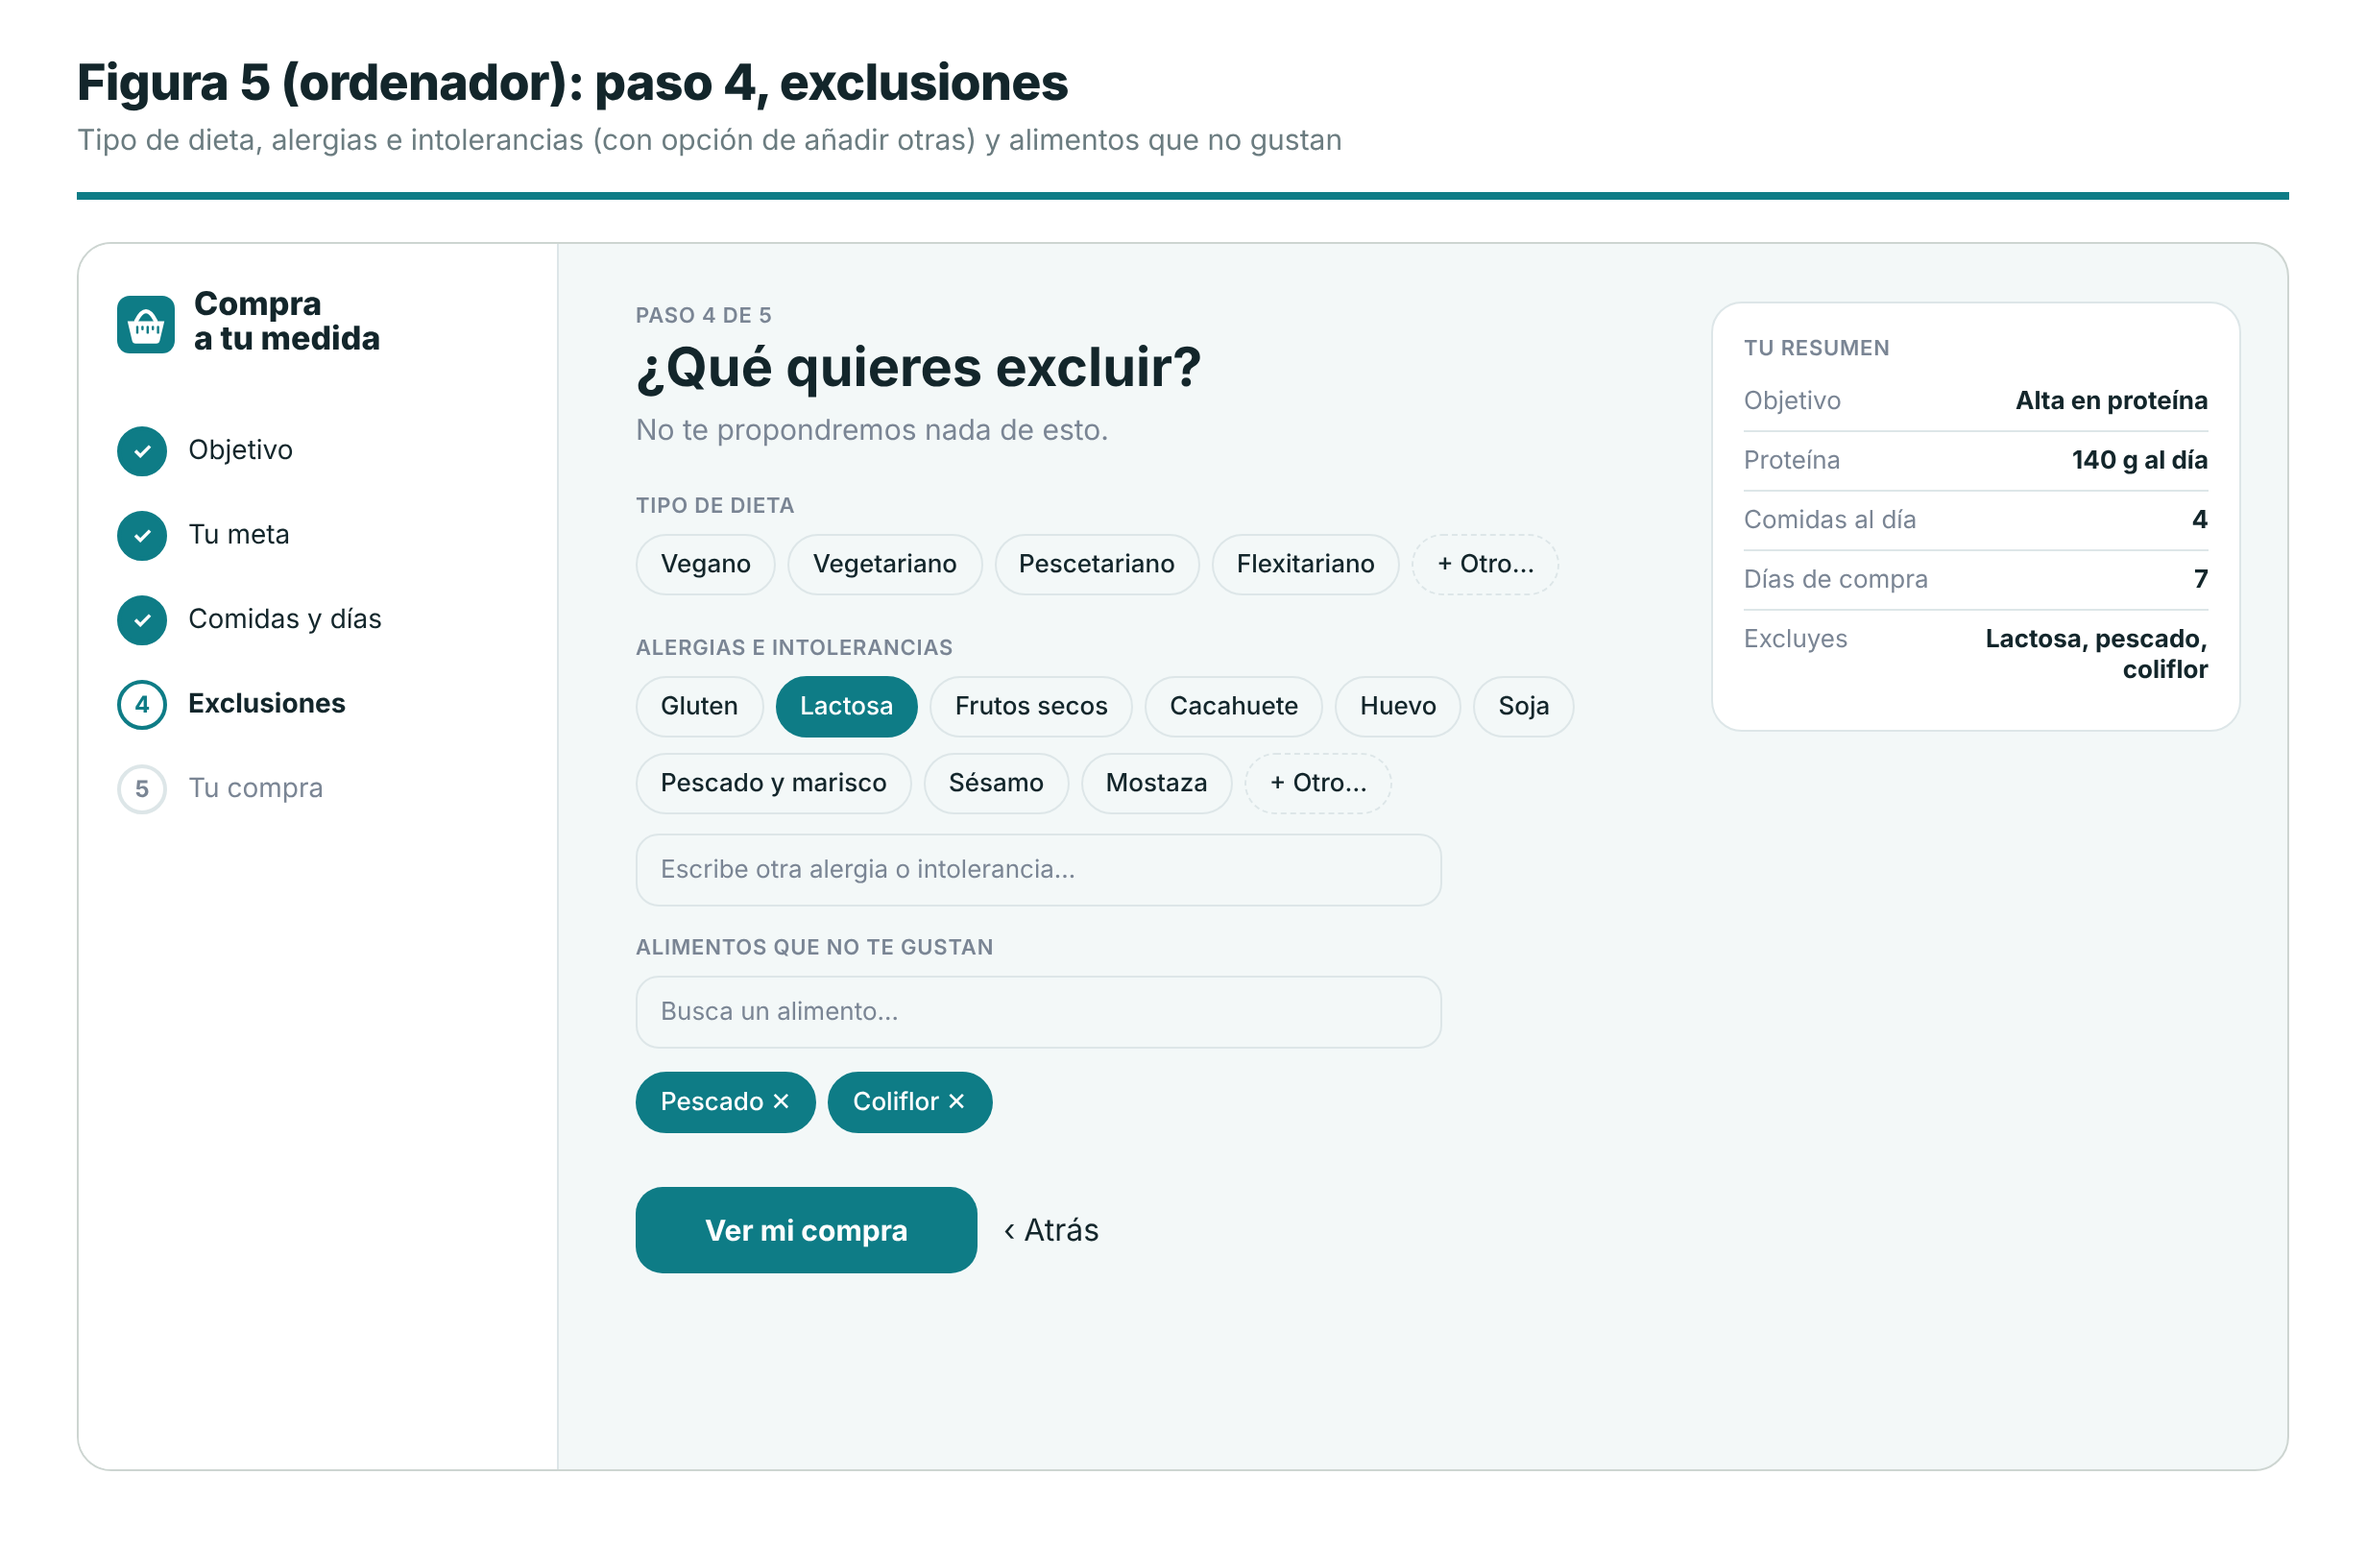
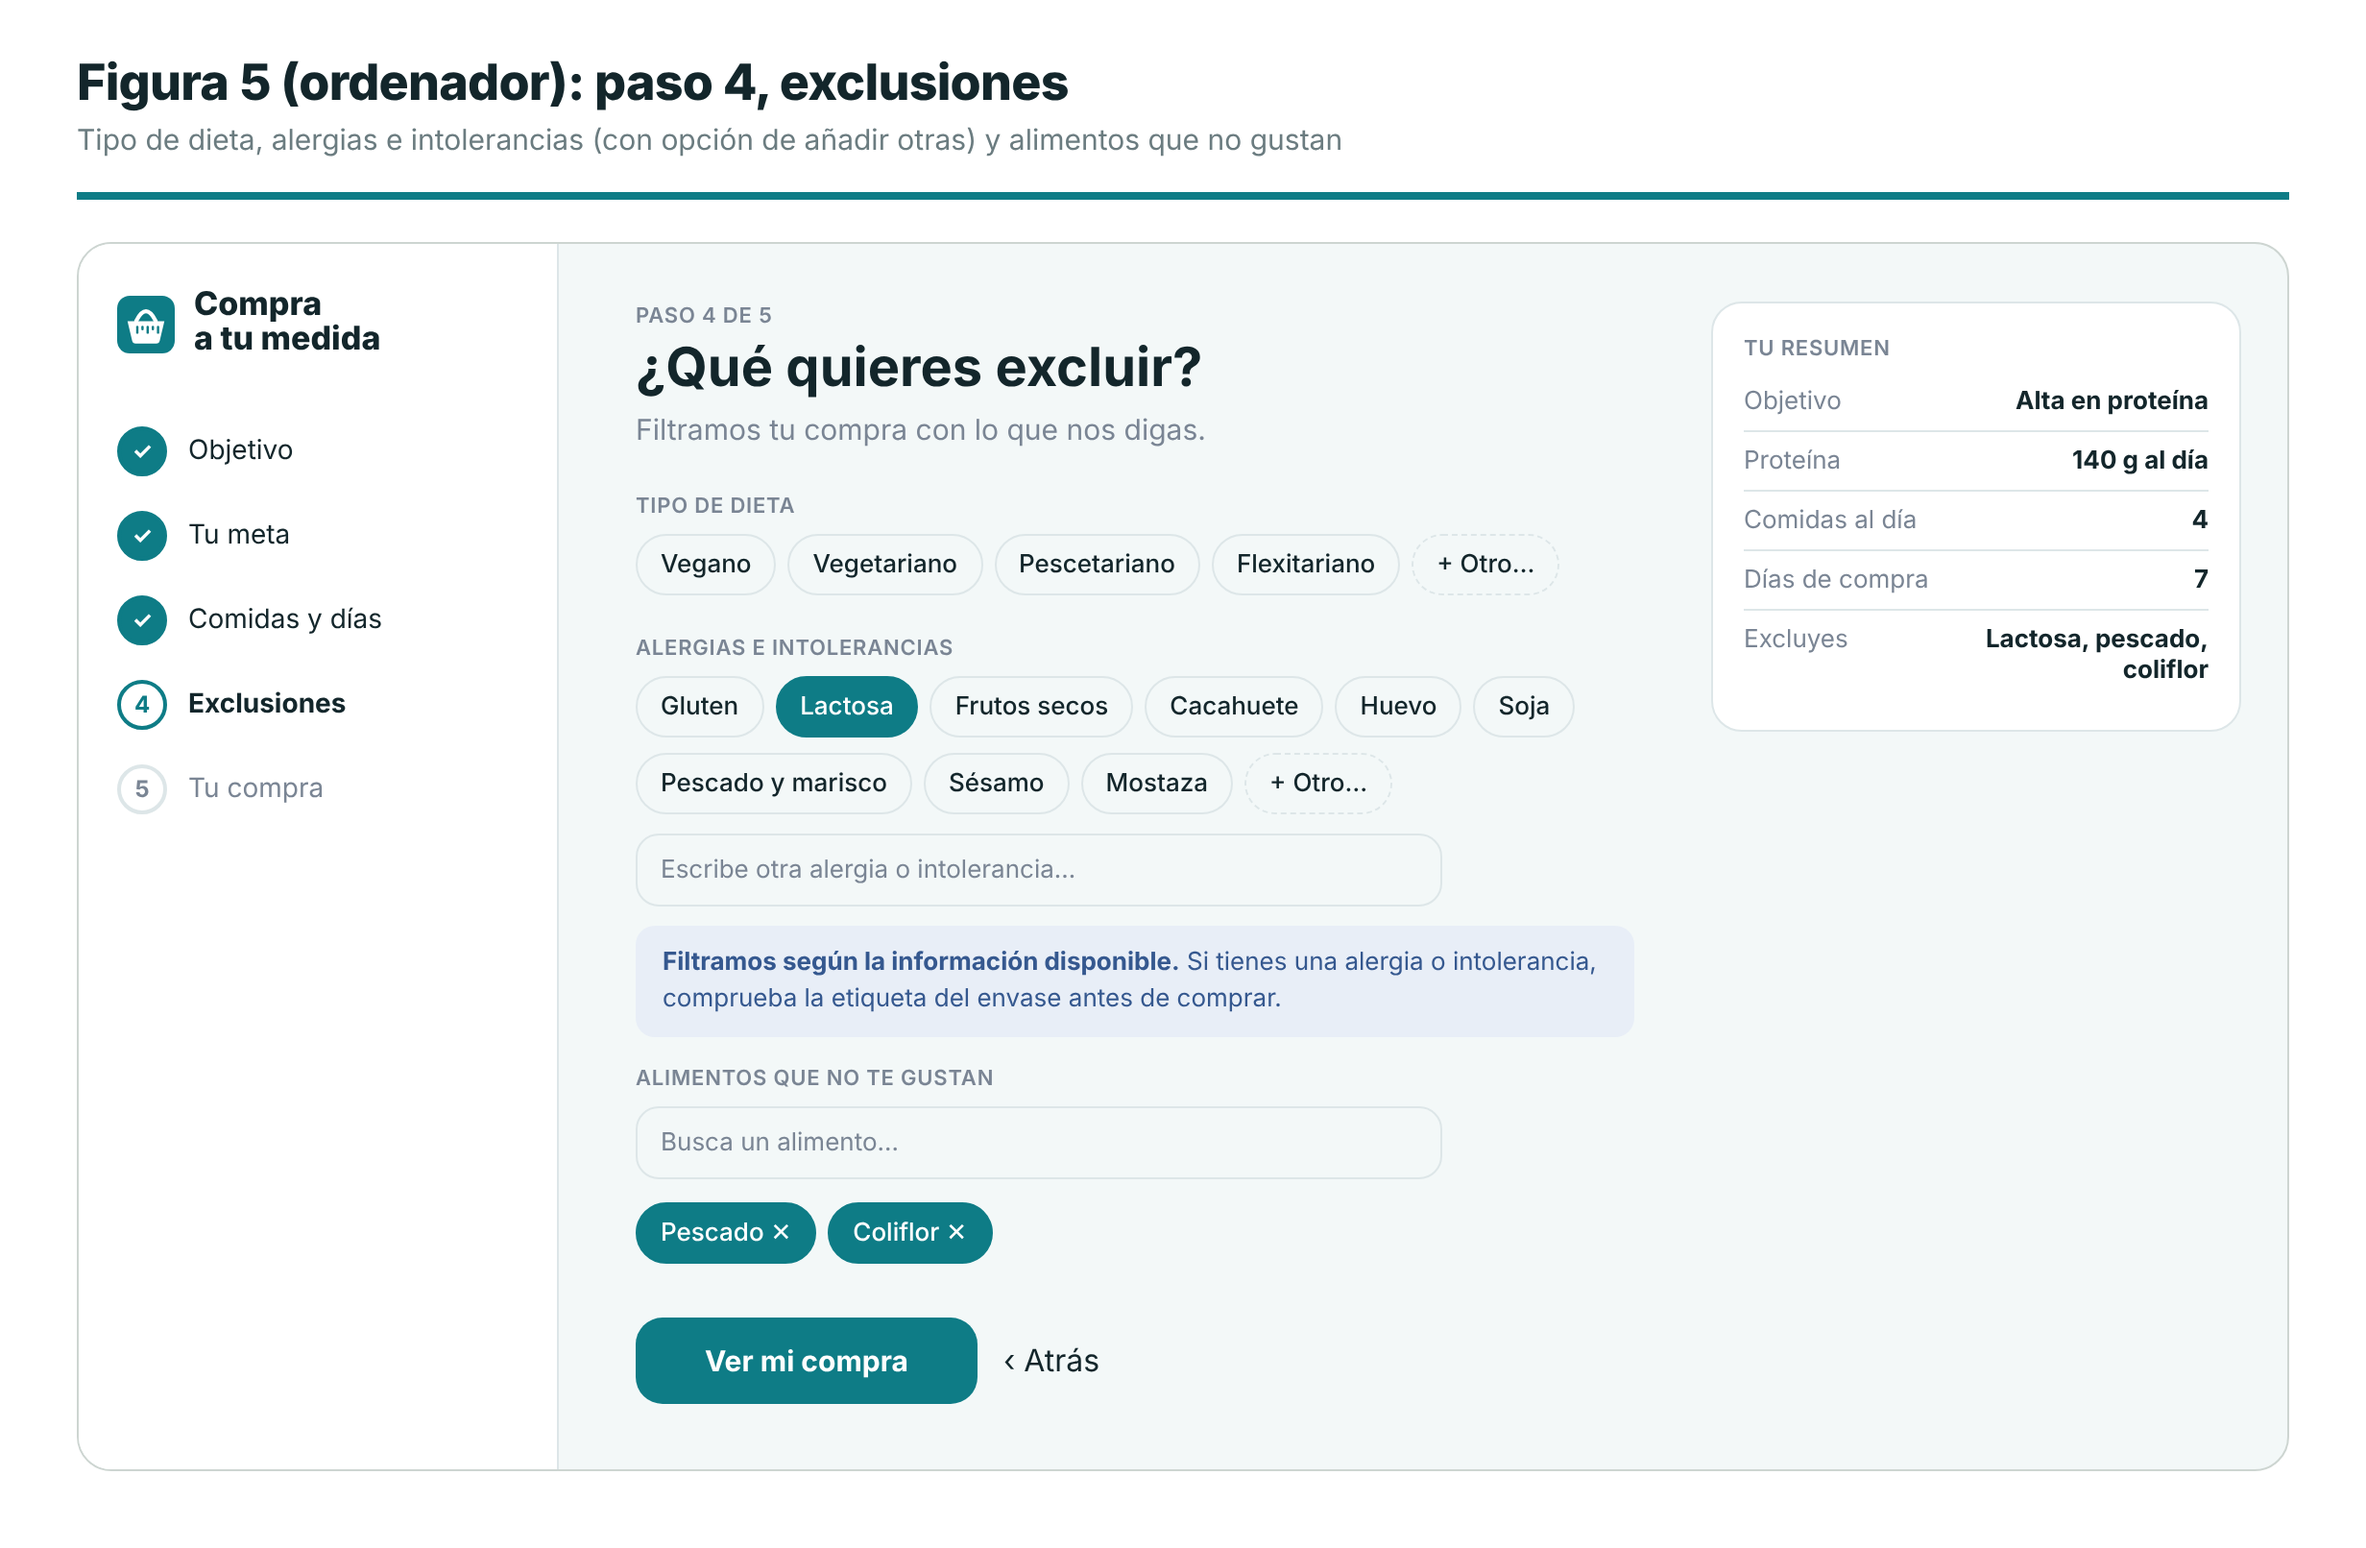
Entrega 4: aviso de alergias según el feedback del profesor

diff --git a/docs/entregas/04_diseno_frontal_ux.md b/docs/entregas/04_diseno_frontal_ux.md
@@ -30,7 +30,7 @@ La persona entra y responde a una pregunta por pantalla. Al final recibe su comp
 | 1. Objetivo | Déficit calórico, alta en proteína, baja en grasa, ganar músculo, mantener peso o comer más sano | La siguiente pregunta, adaptada al objetivo |
 | 2. Su meta | Un dato que cambia según el objetivo (ver tabla de abajo) | Su meta diaria, que puede calcularse con su peso si no la sabe |
 | 3. Comidas y días | Comidas al día (3, 4 o 5) y días de compra | El número total de comidas que hay que cubrir |
-| 4. Exclusiones | Tipo de dieta, alergias o intolerancias y alimentos que no le gustan | La garantía de que no verá productos excluidos |
+| 4. Exclusiones | Tipo de dieta, alergias o intolerancias y alimentos que no le gustan | Una compra filtrada según la información disponible, con un aviso para comprobar la etiqueta |
 | 5. Su compra | Nada, solo revisar | La compra por categorías con raciones, el total en euros y el porcentaje del objetivo cubierto |
 
 La pregunta del paso 2 depende del objetivo elegido:
@@ -118,7 +118,7 @@ Estas son las decisiones de diseño que he tomado y por qué.
 
 - **Las estimaciones se ven siempre.** Un producto cuya proteína no está en Open Food Facts lleva la etiqueta "proteína estimada", y el total de proteína de la semana se escribe con "≈". En la ficha se explica de dónde sale el número ("la media de su categoría") y su rango habitual, con el error típico de 2 a 2,5 g por 100 g que medí con etiquetas reales.
 - **No se inventan números.** Si un producto pertenece a un grupo donde mi regla no es fiable (menos de 8 productos de comparación o error de validación cruzada mayor de 4 g), no se le muestra proteína y no cuenta para el total.
-- **Las exclusiones mandan.** Si la persona marca una alergia o intolerancia y de un producto no tengo información de ingredientes, no se lo ofrezco. Aun así, la herramienta avisa de que conviene revisar la etiqueta, porque los datos de ingredientes no son infalibles.
+- **Las exclusiones filtran, pero no prometen nada.** Si la persona marca una alergia o intolerancia y de un producto no tengo información de ingredientes, no se lo ofrezco. Aun así, en el paso 4 hay un aviso junto a la lista: "filtramos según la información disponible. Si tienes una alergia o intolerancia, comprueba la etiqueta del envase antes de comprar". Los datos de ingredientes no son infalibles, así que la herramienta nunca habla de garantía, solo de filtros aplicados.
 - **Si la compra no llega al objetivo,** por ejemplo porque las exclusiones dejan pocas opciones, se muestra el porcentaje real cubierto y un aviso con lo que falta, en lugar de fingir que llega.
 - **Si una categoría se queda sin productos compatibles,** se indica claramente ("no hay productos compatibles en esta categoría con tus respuestas") en vez de dejarla vacía.
 - **Valores límite en la meta.** El deslizador solo permite cifras razonables (por ejemplo, de 60 a 220 g de proteína al día) para evitar entradas absurdas.
